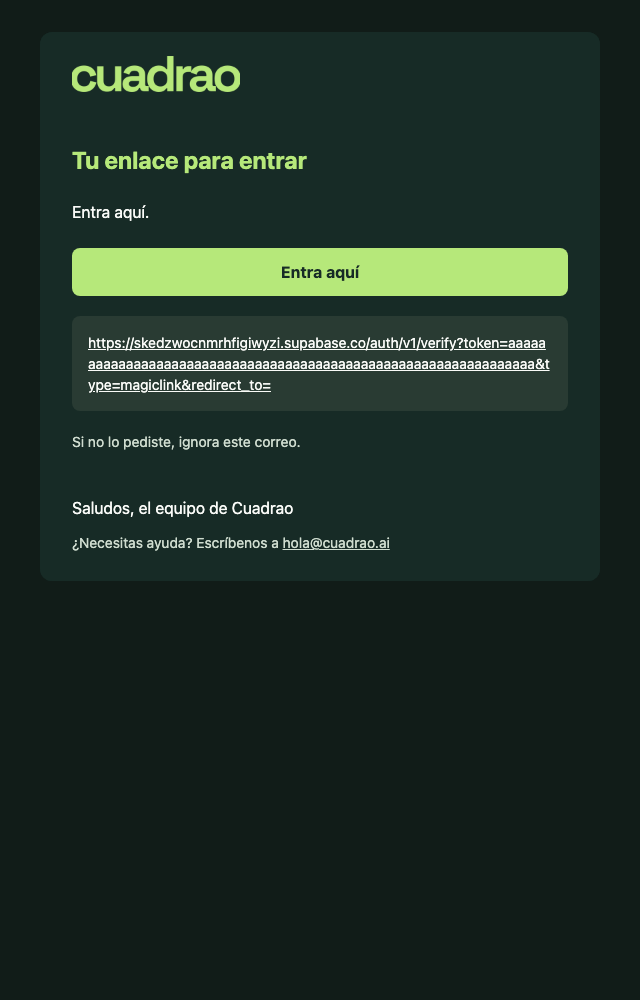
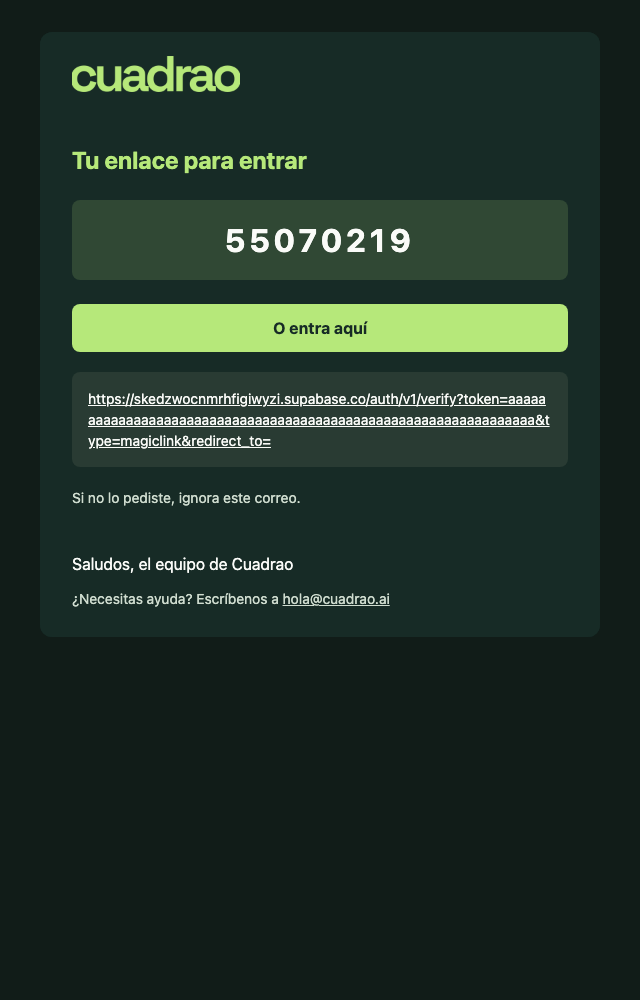
fix(email): retain sign-in codes in the message body

Changed region(s): [[0.0938, 0.186, 0.9062, 0.465], [0.0938, 0.496, 0.625, 0.62]]

diff --git a/web/server/emails/auth-actions.tsx b/web/server/emails/auth-actions.tsx
@@ -18,9 +18,9 @@ const payloadSchema = z.object({
   }),
 });
 
-type LinkedAction = "invite" | "magiclink" | "recovery";
+type LinkedAction = "invite" | "recovery";
 export type AuthMail =
-  | { action: "signup"; recipient: string; tokenHash: string; redirectTo: string; token: string }
+  | { action: "signup" | "magiclink"; recipient: string; tokenHash: string; redirectTo: string; token: string }
   | { action: LinkedAction; recipient: string; tokenHash: string; redirectTo: string }
   | { action: "email_change"; recipient: string; tokenHash: string; redirectTo: string; newEmail: string }
   | { action: "reauthentication"; recipient: string; token: string };
@@ -51,15 +51,15 @@ export function parseAuthMail(value: unknown, appOrigin: string): AuthMail[] {
     ];
   }
   if (data.email_action_type === "recovery" && data.redirect_to && data.redirect_to !== `${appOrigin}/auth/recovery`) throw new Error("Invalid recovery redirect");
-  if (data.email_action_type === "signup") {
-    return [{ action: "signup", recipient: user.email, tokenHash: hash, redirectTo: data.redirect_to, token: otp.parse(data.token) }];
+  if (data.email_action_type === "signup" || data.email_action_type === "magiclink") {
+    return [{ action: data.email_action_type, recipient: user.email, tokenHash: hash, redirectTo: data.redirect_to, token: otp.parse(data.token) }];
   }
   return [{ action: data.email_action_type, recipient: user.email, tokenHash: hash, redirectTo: data.redirect_to }];
 }
 
 const linkCopy = {
   invite: { subject: "Te invitaron a Cuadrao", paragraph: "Te invitaron a usar Cuadrao.", button: "Acepta aquí" },
-  magiclink: { subject: "Tu enlace para entrar", paragraph: "Entra aquí.", button: "Entra aquí", security: "Si no lo pediste, ignora este correo." },
+  magiclink: { subject: "Tu enlace para entrar", button: "O entra aquí", security: "Si no lo pediste, ignora este correo." },
 } as const;
 
 export async function renderAuthMail(mail: AuthMail, supabaseUrl: string) {
@@ -91,7 +91,7 @@ export async function renderAuthMail(mail: AuthMail, supabaseUrl: string) {
   }
   const copy = linkCopy[mail.action];
   return { subject: copy.subject, ...renderAccountEmail({
-    title: copy.subject, paragraphs: [copy.paragraph], action: { label: copy.button, url: url.href },
+    title: copy.subject, code: mail.action === "magiclink" ? mail.token : undefined, paragraphs: "paragraph" in copy ? [copy.paragraph] : [], action: { label: copy.button, url: url.href },
     afterAction: "security" in copy ? copy.security : undefined,
   }) };
 }

diff --git a/web/__tests__/auth-email-transport.test.ts b/web/__tests__/auth-email-transport.test.ts
@@ -11,13 +11,14 @@ describe("Auth email compatibility and delivery", () => {
     const cases: AuthMail[] = [
       { ...linked, action: "signup", token: "55070219" },
       { ...linked, action: "invite" },
-      { ...linked, action: "magiclink" },
+      { ...linked, action: "magiclink", token: "55070219" },
       { ...linked, action: "email_change", newEmail: "new@example.test" },
       { action: "reauthentication", recipient: linked.recipient, token: "55070219" },
     ];
     for (const mail of cases) {
       const rendered = await renderAuthMail(mail, "https://skedzwocnmrhfigiwyzi.supabase.co");
       assert.equal(rendered.subject.includes("55070219"), mail.action === "signup");
+      assert.equal(rendered.text.includes("55070219"), ["signup", "magiclink", "reauthentication"].includes(mail.action));
       assert.ok(rendered.html.includes('alt="Cuadrao"'));
       assert.ok(rendered.html.includes("Saludos, el equipo de Cuadrao"));
       assert.ok(!rendered.html.includes("Salir de la lista"));

diff --git a/scripts/emails/render-staging-auth.ts b/scripts/emails/render-staging-auth.ts
@@ -9,7 +9,7 @@ const linked = { recipient: "synthetic@example.test", tokenHash: hash, redirectT
 const actions: Array<{ field: string; mail: AuthMail }> = [
   {field: "confirmation", mail: {...linked, action: "signup", token: code}},
   {field: "invite", mail: {...linked, action: "invite"}},
-  {field: "magic_link", mail: {...linked, action: "magiclink"}},
+  {field: "magic_link", mail: {...linked, action: "magiclink", token: code}},
   {field: "recovery", mail: {...linked, action: "recovery"}},
   {field: "email_change", mail: {...linked, action: "email_change", newEmail: "synthetic-new@example.test"}},
   {field: "reauthentication", mail: {action: "reauthentication", recipient: linked.recipient, token: code}},

diff --git a/web/__tests__/auth-email-hook.test.ts b/web/__tests__/auth-email-hook.test.ts
@@ -90,7 +90,7 @@ describe("staging Auth email hook", () => {
     const cases = [
       ["signup", "123456 es tu código de Cuadrao", "Úsalo para confirmar tu cuenta."],
       ["invite", "Te invitaron a Cuadrao", "Te invitaron a usar Cuadrao."],
-      ["magiclink", "Tu enlace para entrar", "Entra aquí."],
+      ["magiclink", "Tu enlace para entrar", "O entra aquí"],
       ["reauthentication", "Tu código de verificación", "123456"],
     ];
     for (const [action, subject, body] of cases) {
